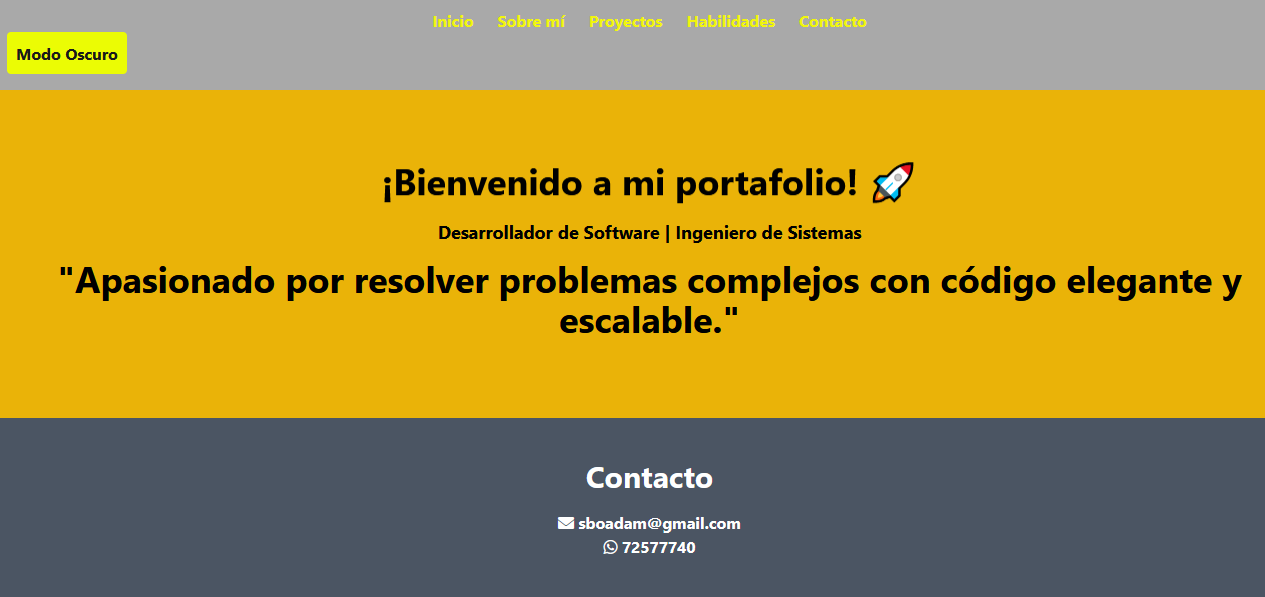
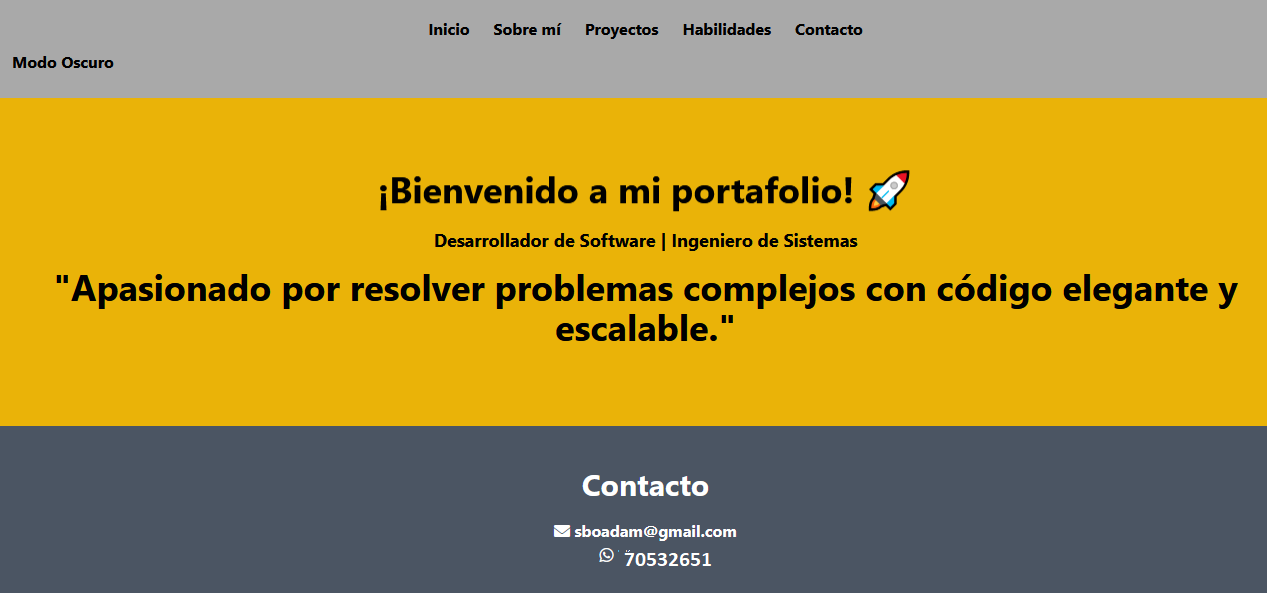
actualizado

diff --git a/src/components/About.jsx b/src/components/About.jsx
@@ -9,7 +9,7 @@ const About = () => {
       <div className="flex flex-col items-center justify-center mt-6">
         <div className="w-40 h-40 overflow-hidden rounded-full border-4 shadow-lg">
           <img
-            src="imagenes/foto.jpg"
+            src="imagenes/foto.png"
             alt="yo"
             className="w-full h-full object-cover"
           />
@@ -58,7 +58,10 @@ const About = () => {
       </p>
 
       <p className="mt-6 text-justify font-bold">
-        Soy un apasionado del fútbol y fiel hincha de The Strongest, Boca Juniors y FC Barcelona. Me inspira la disciplina y estrategia del deporte para aplicarlas en mi vida profesional. Mi compromiso con la tecnología, la educación y el análisis de datos me motiva a seguir aprendiendo y desarrollando soluciones innovadoras.
+        Soy un apasionado del fútbol y fiel hincha de The Strongest, Boca Juniors y FC Barcelona.
+      </p>
+      <p className="mt-6 text-justify font-bold">
+        Me inspira la disciplina y estrategia del deporte para aplicarlas en mi vida profesional. Mi compromiso con la tecnología, la educación y el análisis de datos me motiva a seguir aprendiendo y desarrollando soluciones innovadoras.
       </p>
     </section>
   );

diff --git a/src/components/Contact.jsx b/src/components/Contact.jsx
@@ -5,7 +5,7 @@ const Contact = () => {
     <section id="contact" className="p-10 bg-gray-600 text-white text-center">
       <h2 className="text-3xl font-bold">Contacto</h2>
       <p className="mt-4"><i class="fa-solid fa-envelope"></i><strong> sboadam@gmail.com</strong></p>
-      <p><i class="fab fa-whatsapp"></i><strong> 72577740</strong></p>
+      <p><i class="fab fa-whatsapp"></i><strong> 70532651</strong></p>
     </section>
   );
 };

diff --git a/src/components/Skills.jsx b/src/components/Skills.jsx
@@ -34,7 +34,8 @@ const Skills = () => {
       { name: "SQL Server" },
       { name: "Ms Access" },
       { name: "IBM DB2" },
-      { name: "Oracle" }
+      { name: "Oracle" },
+      { name: "mongoDB" }
     ]);
     setFrameworks([
       { name: "Angular", tipo: "frontend" },
